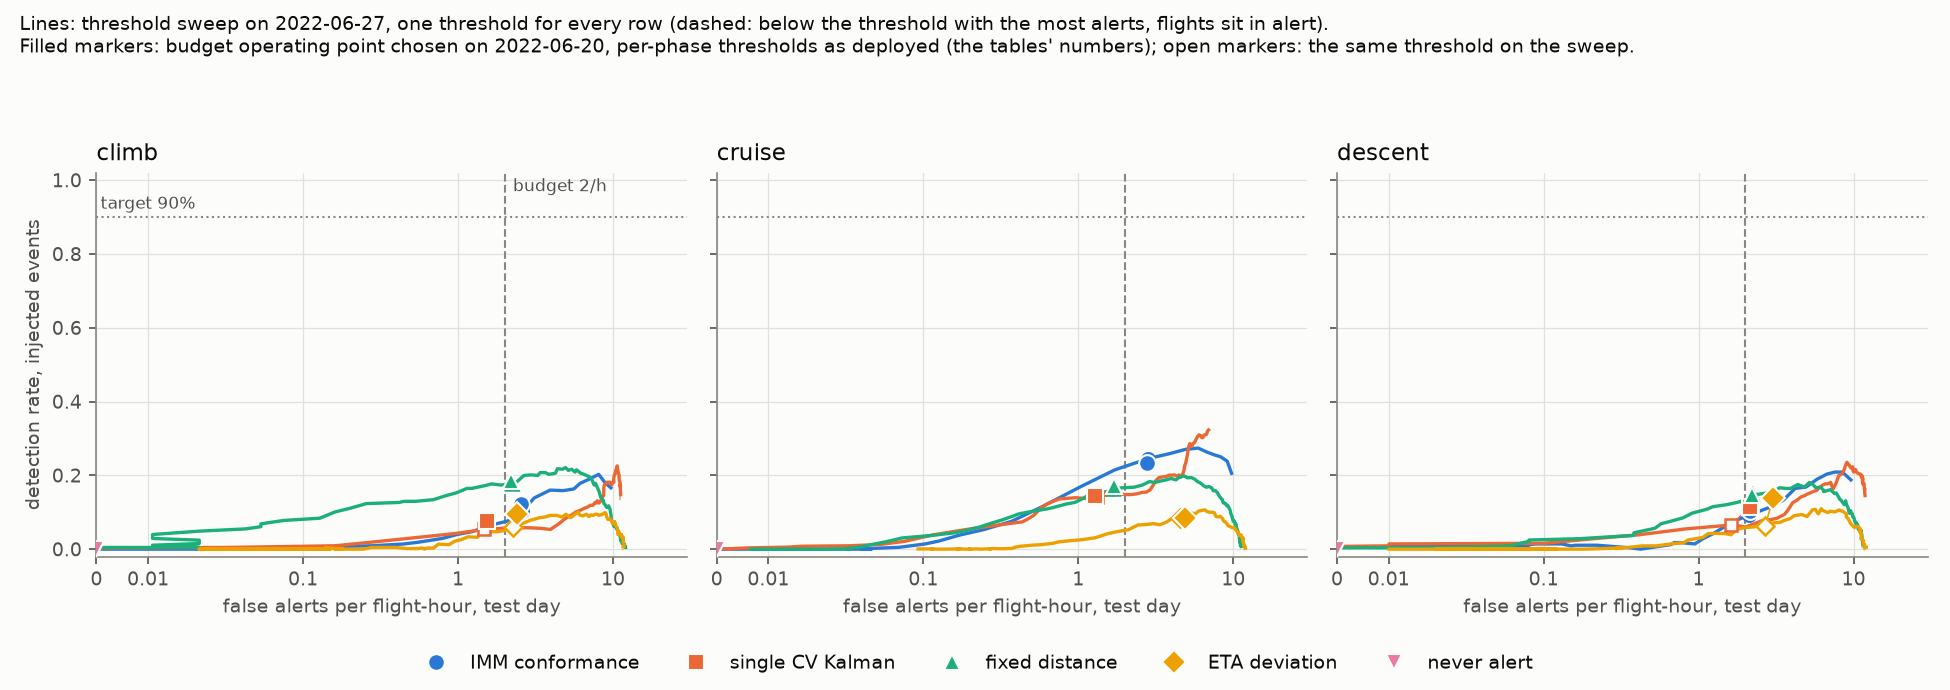
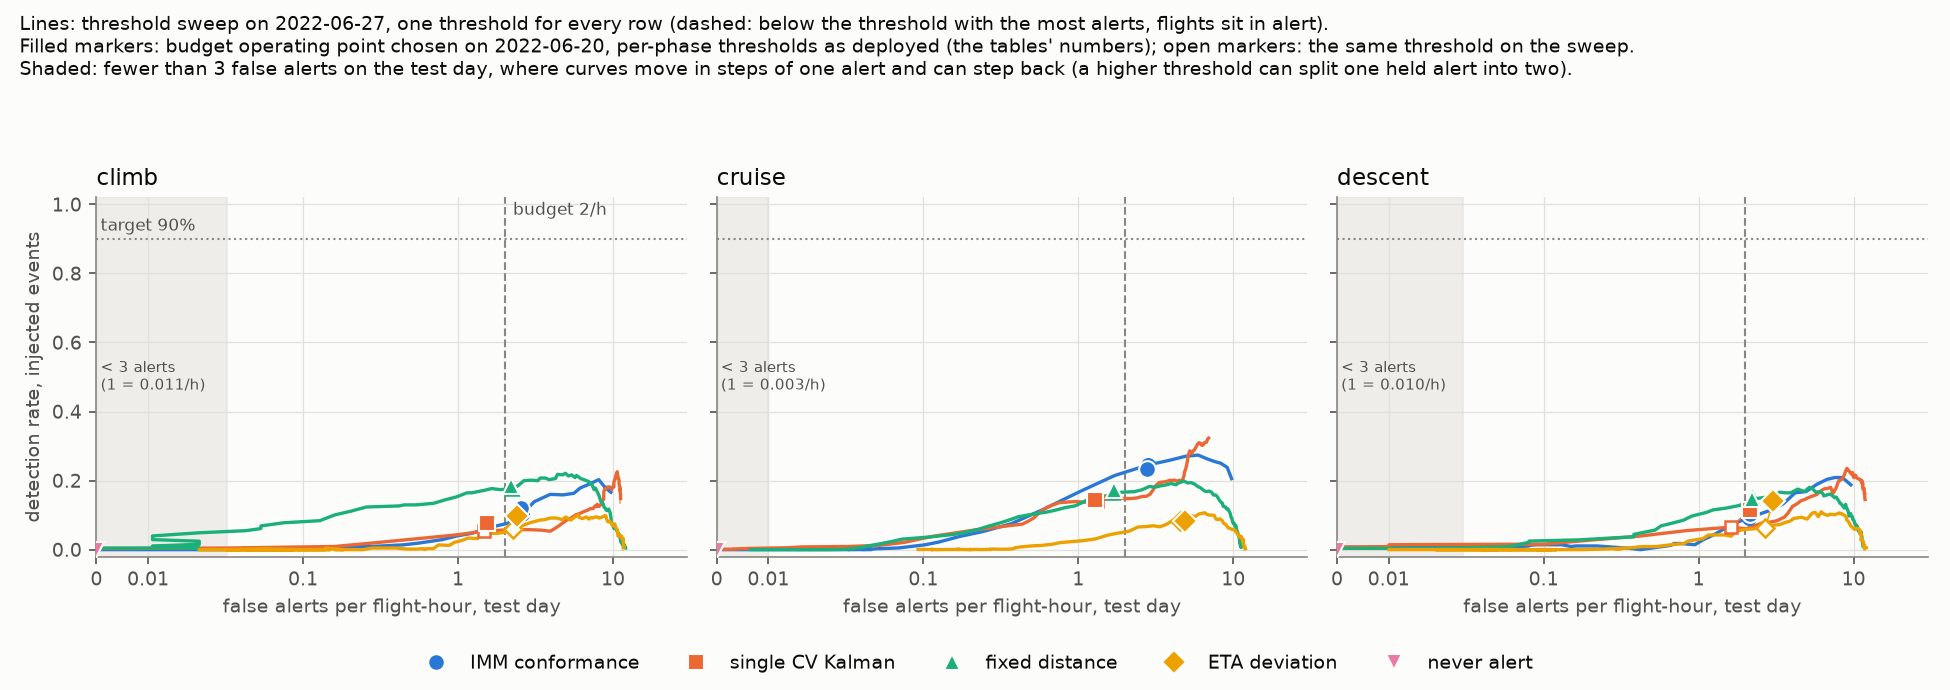
Shade the under-3-alert region of the phase 4 alert-vs-detection figure
Below three false alerts on the test day the threshold sweep moves in
steps of one alert and a higher threshold can split one held alert into
two, so curves can step back. Shade that region and say so in the title.

diff --git a/scripts/figures.py b/scripts/figures.py
@@ -155,6 +155,12 @@ def phase4(cfg: dict) -> list[str]:
         _style(ax)
         ax.axvline(ev["alert_budget_per_flight_hour"], color=MUTED, linewidth=1, linestyle="--")
         ax.axhline(ev["detection_target"], color=MUTED, linewidth=1, linestyle=":")
+        # Below 3 false alerts the sweep moves in steps of one alert, and raising the threshold can
+        # split one held alert into two, so a curve there may step back toward more alerts.
+        hours = json.loads(repo_path("results/phase4_never_alert.json").read_text())["test_day"]["budget"][phase]["flight_hours"]
+        ax.axvspan(0, 3 / hours, color=BAND, alpha=0.5, zorder=0)
+        ax.annotate(f"< 3 alerts\n(1 = {1 / hours:.3f}/h)", (0, 0.5), xytext=(2, 0), textcoords="offset points",
+                    color=TEXT_SECONDARY, fontsize=7, va="center")
         for name, label, color, marker in DETECTORS:
             result = json.loads(repo_path(f"results/phase4_{name}.json").read_text())
             sweep = result["sweep"]["test"]
@@ -192,7 +198,9 @@ def phase4(cfg: dict) -> list[str]:
     tune, test = ev["tune_days"][0], ev["test_days"][0]
     fig.suptitle(f"Lines: threshold sweep on {test}, one threshold for every row (dashed: below the threshold with the most alerts, "
                  f"flights sit in alert).\nFilled markers: budget operating point chosen on {tune}, per-phase thresholds as deployed "
-                 f"(the tables' numbers); open markers: the same threshold on the sweep.",
+                 f"(the tables' numbers); open markers: the same threshold on the sweep.\n"
+                 f"Shaded: fewer than 3 false alerts on the test day, where curves move in steps of one alert and can step back "
+                 f"(a higher threshold can split one held alert into two).",
                  color=TEXT, fontsize=9, x=0.01, ha="left")
     fig.tight_layout(rect=(0, 0.07, 1, 0.93))
     path = repo_path("figures/phase4_alert_vs_detection.png")
